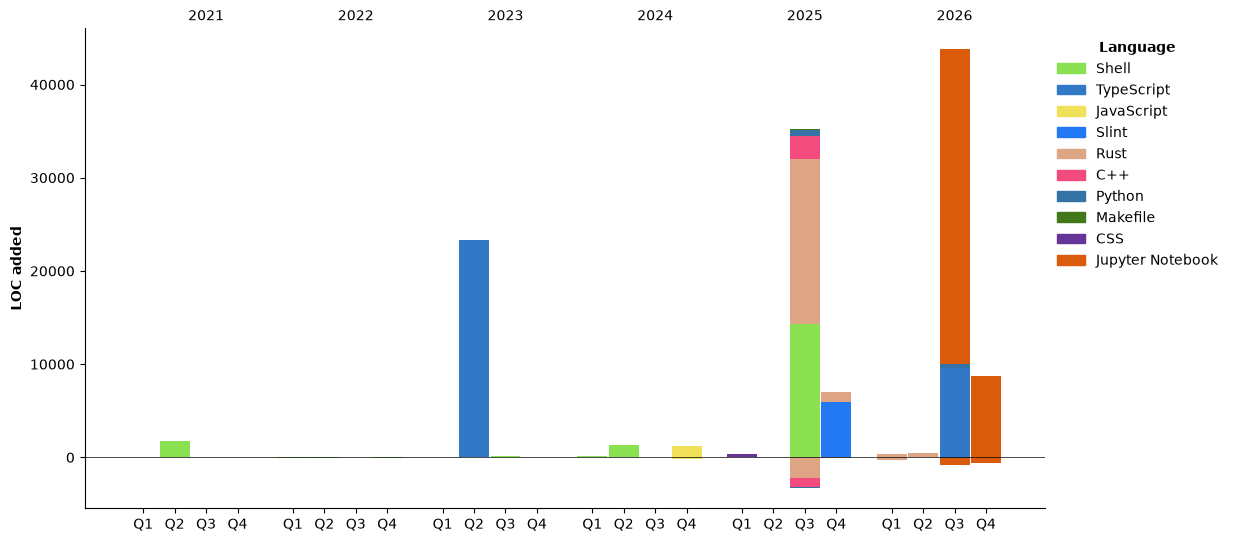
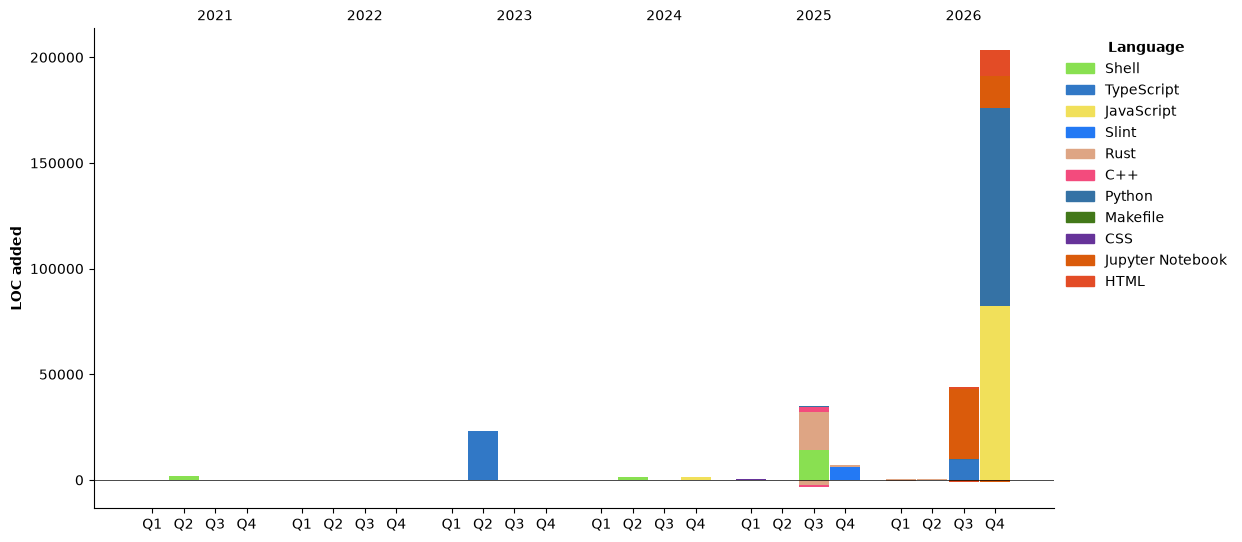
Updated with Dev Metrics

diff --git a/README.md b/README.md
@@ -230,33 +230,33 @@
 <h2 align="center">📊 GitHub Stats</h2>
 
 <!--START_SECTION:waka-->
-
-![Code Time](http://img.shields.io/badge/Code%20Time-104%20hrs%2030%20mins-blue?style=for-the-badge)
-
-📊 **This Week I Spent My Time On**
+📊 **This Week I Spent My Time On** 
 
 ```text
-💬 Programming Languages:
-Python                   8 hrs 41 mins       ████████████░░░░░░░░░░░░░   47.20 %
-Markdown                 7 hrs 26 mins       ██████████░░░░░░░░░░░░░░░   40.39 %
-Other                    32 mins             █░░░░░░░░░░░░░░░░░░░░░░░░   02.98 %
-JavaScript               22 mins             ░░░░░░░░░░░░░░░░░░░░░░░░░   01.99 %
-YAML                     21 mins             ░░░░░░░░░░░░░░░░░░░░░░░░░   01.93 %
+💬 Programming Languages: 
+Python                   9 hrs 45 mins       █████████████░░░░░░░░░░░░   50.33 % 
+Markdown                 8 hrs 2 mins        ██████████░░░░░░░░░░░░░░░   41.48 % 
+YAML                     39 mins             █░░░░░░░░░░░░░░░░░░░░░░░░   03.35 % 
+JavaScript               18 mins             ░░░░░░░░░░░░░░░░░░░░░░░░░   01.57 % 
+Nushell                  11 mins             ░░░░░░░░░░░░░░░░░░░░░░░░░   01.00 % 
 ```
 
-**I Mostly Code in Rust**
+**I Mostly Code in Rust** 
 
 ```text
-Rust                     11 repos            ████████░░░░░░░░░░░░░░░░░   31.43 %
-Jupyter Notebook         7 repos             █████░░░░░░░░░░░░░░░░░░░░   20.00 %
-Python                   3 repos             ██░░░░░░░░░░░░░░░░░░░░░░░   08.57 %
-TypeScript               3 repos             ██░░░░░░░░░░░░░░░░░░░░░░░   08.57 %
-Slint                    1 repo              █░░░░░░░░░░░░░░░░░░░░░░░░   02.86 %
+Jupyter Notebook         6 repos             ████░░░░░░░░░░░░░░░░░░░░░   16.22 % 
+Python                   4 repos             ███░░░░░░░░░░░░░░░░░░░░░░   10.81 % 
+TypeScript               3 repos             ██░░░░░░░░░░░░░░░░░░░░░░░   08.11 % 
+JavaScript               2 repos             █░░░░░░░░░░░░░░░░░░░░░░░░   05.41 % 
+HTML                     1 repo              █░░░░░░░░░░░░░░░░░░░░░░░░   02.70 % 
 ```
+
+
 
 **Timeline**
 
-![Lines of Code chart](https://raw.githubusercontent.com/ferozeren/ferozeren/main/assets/bar_graph.png)
+![Lines of Code chart](https://raw.githubusercontent.com/ferozeren/ferozeren/master/assets/bar_graph.png)
+
 
 <!--END_SECTION:waka-->
 
